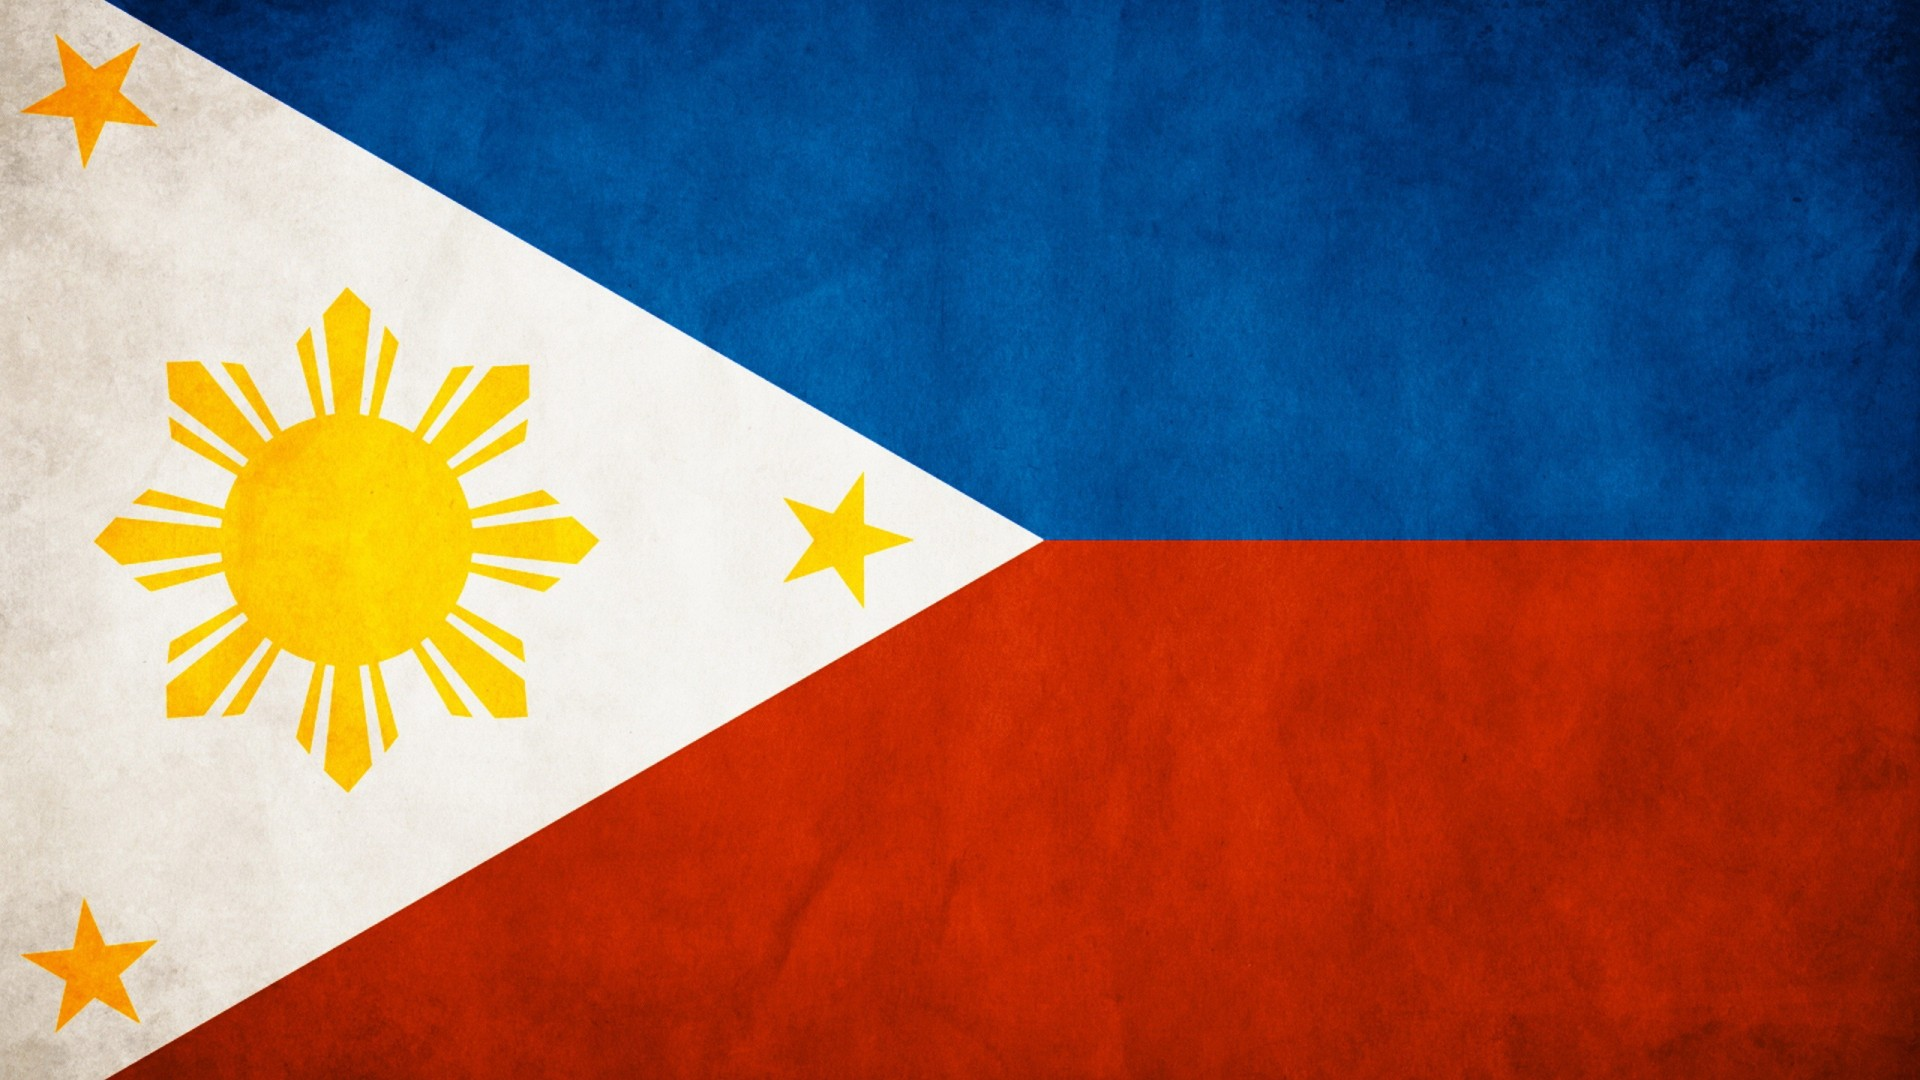
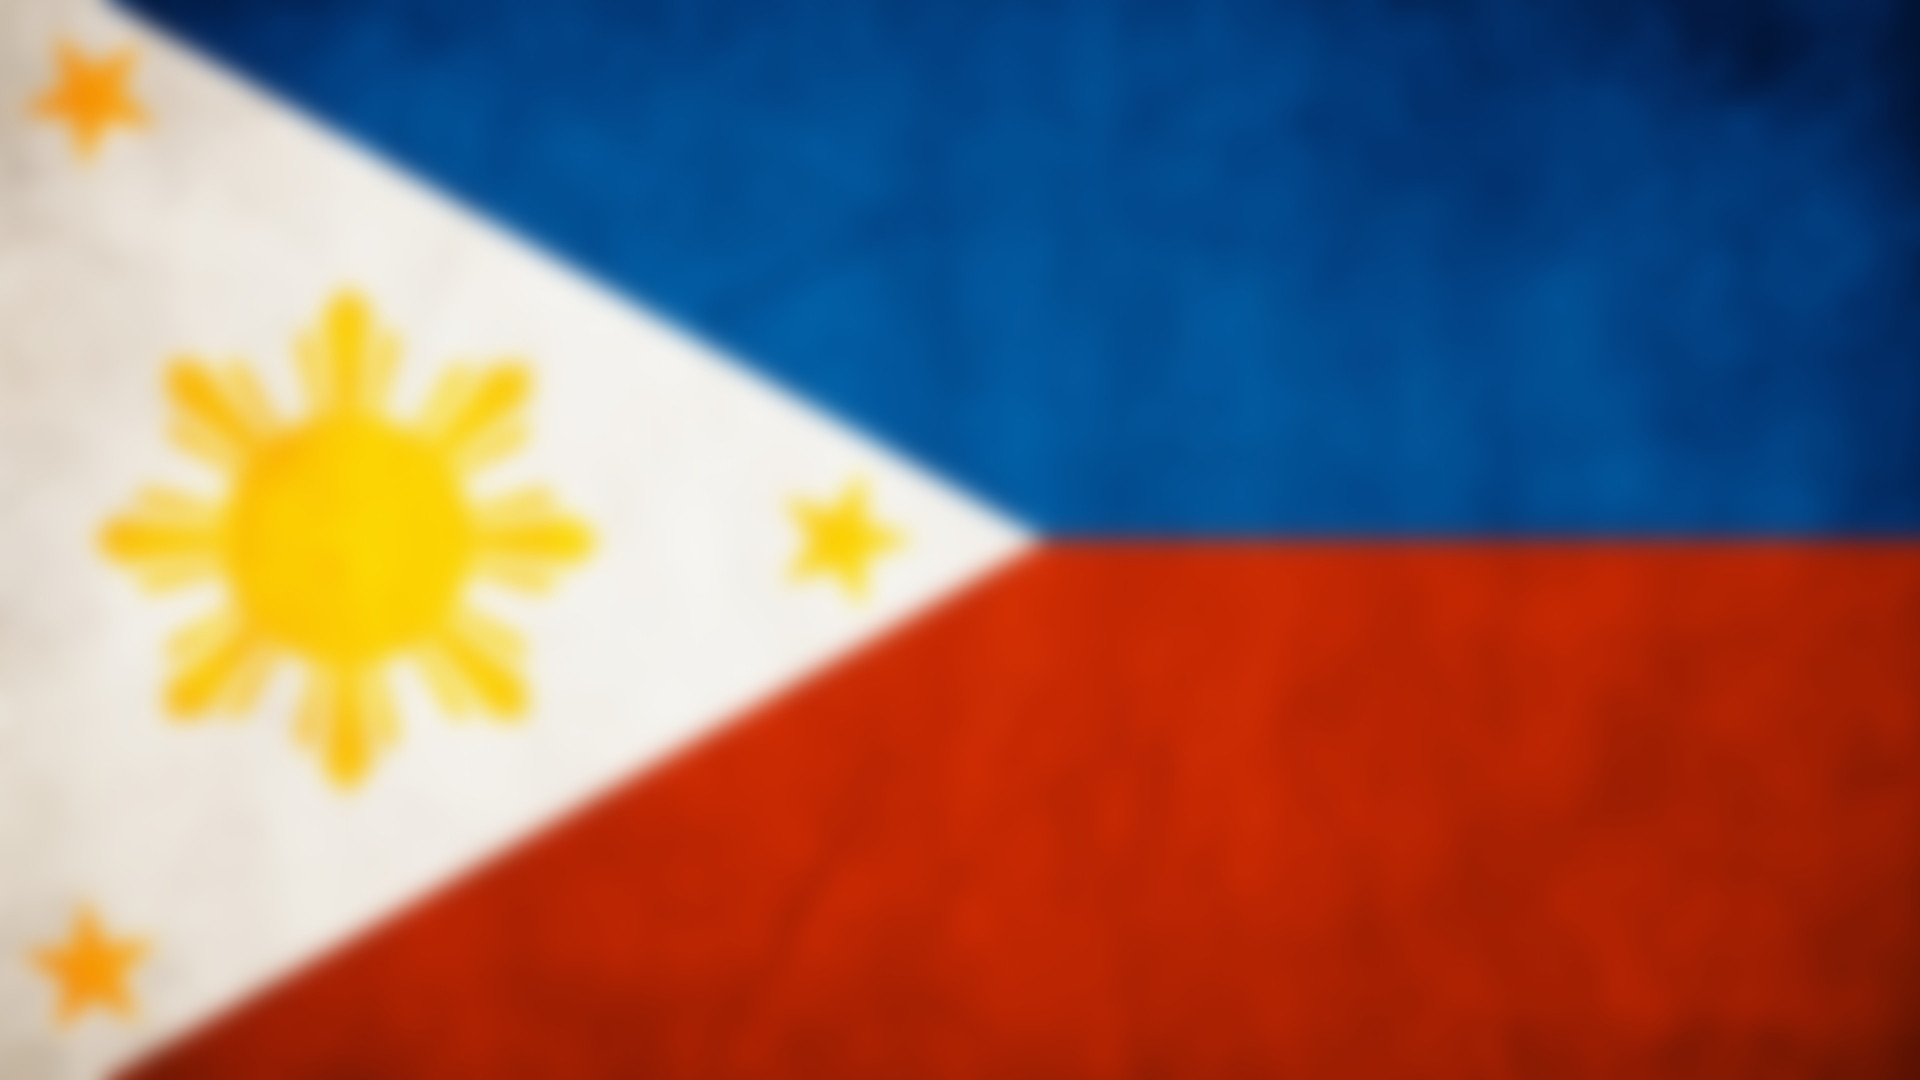
initial layout done

Changed region(s): [[0.0, 0.0, 1.0, 1.0], [0.0312, 0.2444, 0.3125, 0.7333]]

diff --git a/views/layout.html b/views/layout.html
@@ -10,16 +10,9 @@
     <link href="bower_components/bootstrap/dist/css/bootstrap.min.css" rel="stylesheet">
     <link rel="stylesheet" type="text/css" href="css/jumbotron.css">
 
-    <!-- HTML5 shim and Respond.js for IE8 support of HTML5 elements and media queries -->
-    <!-- WARNING: Respond.js doesn't work if you view the page via file:// -->
-    <!--[if lt IE 9]>
-      <script src="https://oss.maxcdn.com/html5shiv/3.7.2/html5shiv.min.js"></script>
-      <script src="https://oss.maxcdn.com/respond/1.4.2/respond.min.js"></script>
-    <![endif]-->
   </head>
   <body>
-
-	<nav class="navbar navbar-inverse navbar-fixed-top" role="navigation">
+	<nav class="navbar navbar-fixed-top" role="navigation">
       <div class="container">
         <div class="navbar-header">
           <a class="navbar-brand" href="#">ISIP</a>
@@ -37,19 +30,8 @@
       </div>
     </nav>
 
-
-	<div class="jumbotron">
-		<div class="container">
-  			<h1>We need more transparency.</h1>
-  			<p>The Philippines needs politics to focus more on candidates' beliefs and ideals.
-          What do you believe in? Take the quiz to see which political candidate holds the same views.
-        </p>
-  			<p><a class="btn btn-primary btn-lg" href="#" role="button">Try it Now</a></p>
-		</div>
-	</div>
-	<!-- jQuery (necessary for Bootstrap's JavaScript plugins) -->
+  {% block content %} {% endblock %}
     <script src="https://ajax.googleapis.com/ajax/libs/jquery/1.11.1/jquery.min.js"></script>
-    <!-- Include all compiled plugins (below), or include individual files as needed -->
     <script src="bower_components/bootstrap/dist/js/bootstrap.min.js"></script>
   </body>
 </html>

diff --git a/index.js b/index.js
@@ -1,40 +1,13 @@
+'use strict';
+
 var koa = require('koa'),
+	serve = require('koa-static'),
 	router = require('koa-router'),
-	views = require('co-views'),
-	serve = require('koa-static');
+	routes = require('./routes');
 var app = koa();
 
 app.use(router(app));
-
 app.use(serve('public'));
-
-var render = views(__dirname + '/views', {
-	map : {html: 'swig'}
-});
-
-app.get('/', function* (next) {
-	this.body = yield render('start.html');
-});
-
-// app.use(function* (next) {
-// 	if (this.request.path !== '/') {
-// 		return yield next;
-// 	}
-// 	this.response.body = 'hello world';
-// });
-
-// app.use(function* (next) {
-// 	if (this.request.path !== '/404') {
-// 		return yield next;
-// 	}
-// 	this.response.body = 'page not found';
-// });
-
-// app.use(function* (next) {
-// 	if (this.request.path !== '/500') {
-// 		return yield next;
-// 	}
-// 	this.response.body = 'internal server error';
-// });
+routes(app);
 
 app.listen(3000);

diff --git a/views/index.html b/views/index.html
@@ -1,0 +1,13 @@
+{% extends 'layout.html' %}
+
+{% block content %}
+	<div id="middle">
+		<div class="container">
+  			<h1>We need more transparency.</h1>
+  			<p>The Philippines needs politics to focus more on candidates' beliefs and ideals.
+          What do you believe in? Take the quiz to see which political candidate holds the same views.
+        </p>
+  			<p><a class="btn btn-primary btn-lg" href="#" role="button">Try it Now</a></p>
+		</div>
+	</div>
+{% endblock %}

diff --git a/controllers/quiz.js b/controllers/quiz.js
@@ -1,0 +1,21 @@
+'use strict';
+
+var	views = require('co-views'),
+	path = require('path');
+
+var render = views(path.join(__dirname + '/../views'), {
+	map : {html: 'swig'}
+});
+
+var getQuestions = function* () {
+	return {question: "yolo"};
+}
+
+exports.index = function* () {
+	this.body = yield render('index.html');
+}
+
+exports.quiz = function* () {
+	var questions = yield getQuestions();
+	this.body = yield render('quiz.html', {questions: questions});
+}

diff --git a/routes.js b/routes.js
@@ -1,0 +1,13 @@
+'use strict';
+
+var quiz = require('./controllers/quiz');
+
+module.exports = function routes(app) {
+	app.get('/', quiz.index);
+
+	app.get('/quiz', quiz.quiz);
+
+	app.post('/quiz', function* (next) {
+
+	});
+}

diff --git a/public/css/jumbotron.css b/public/css/jumbotron.css
@@ -1,3 +1,14 @@
-.jumbotron {
-	margin-top : 50px;
+#middle {
+	margin-top : 300px;
+	font-size: 21px;
+}
+
+#middle h1 {
+	font-size: 40px;
+}
+.navbar a {
+	color: white;
+}
+body {
+	background-image: url("../img/flag.jpg");
 }

diff --git a/views/quiz.html b/views/quiz.html
@@ -1,0 +1,6 @@
+{% extends 'layout.html' %}
+
+{% block content %}
+	<div class="container">
+	</div>
+{% endblock %}
